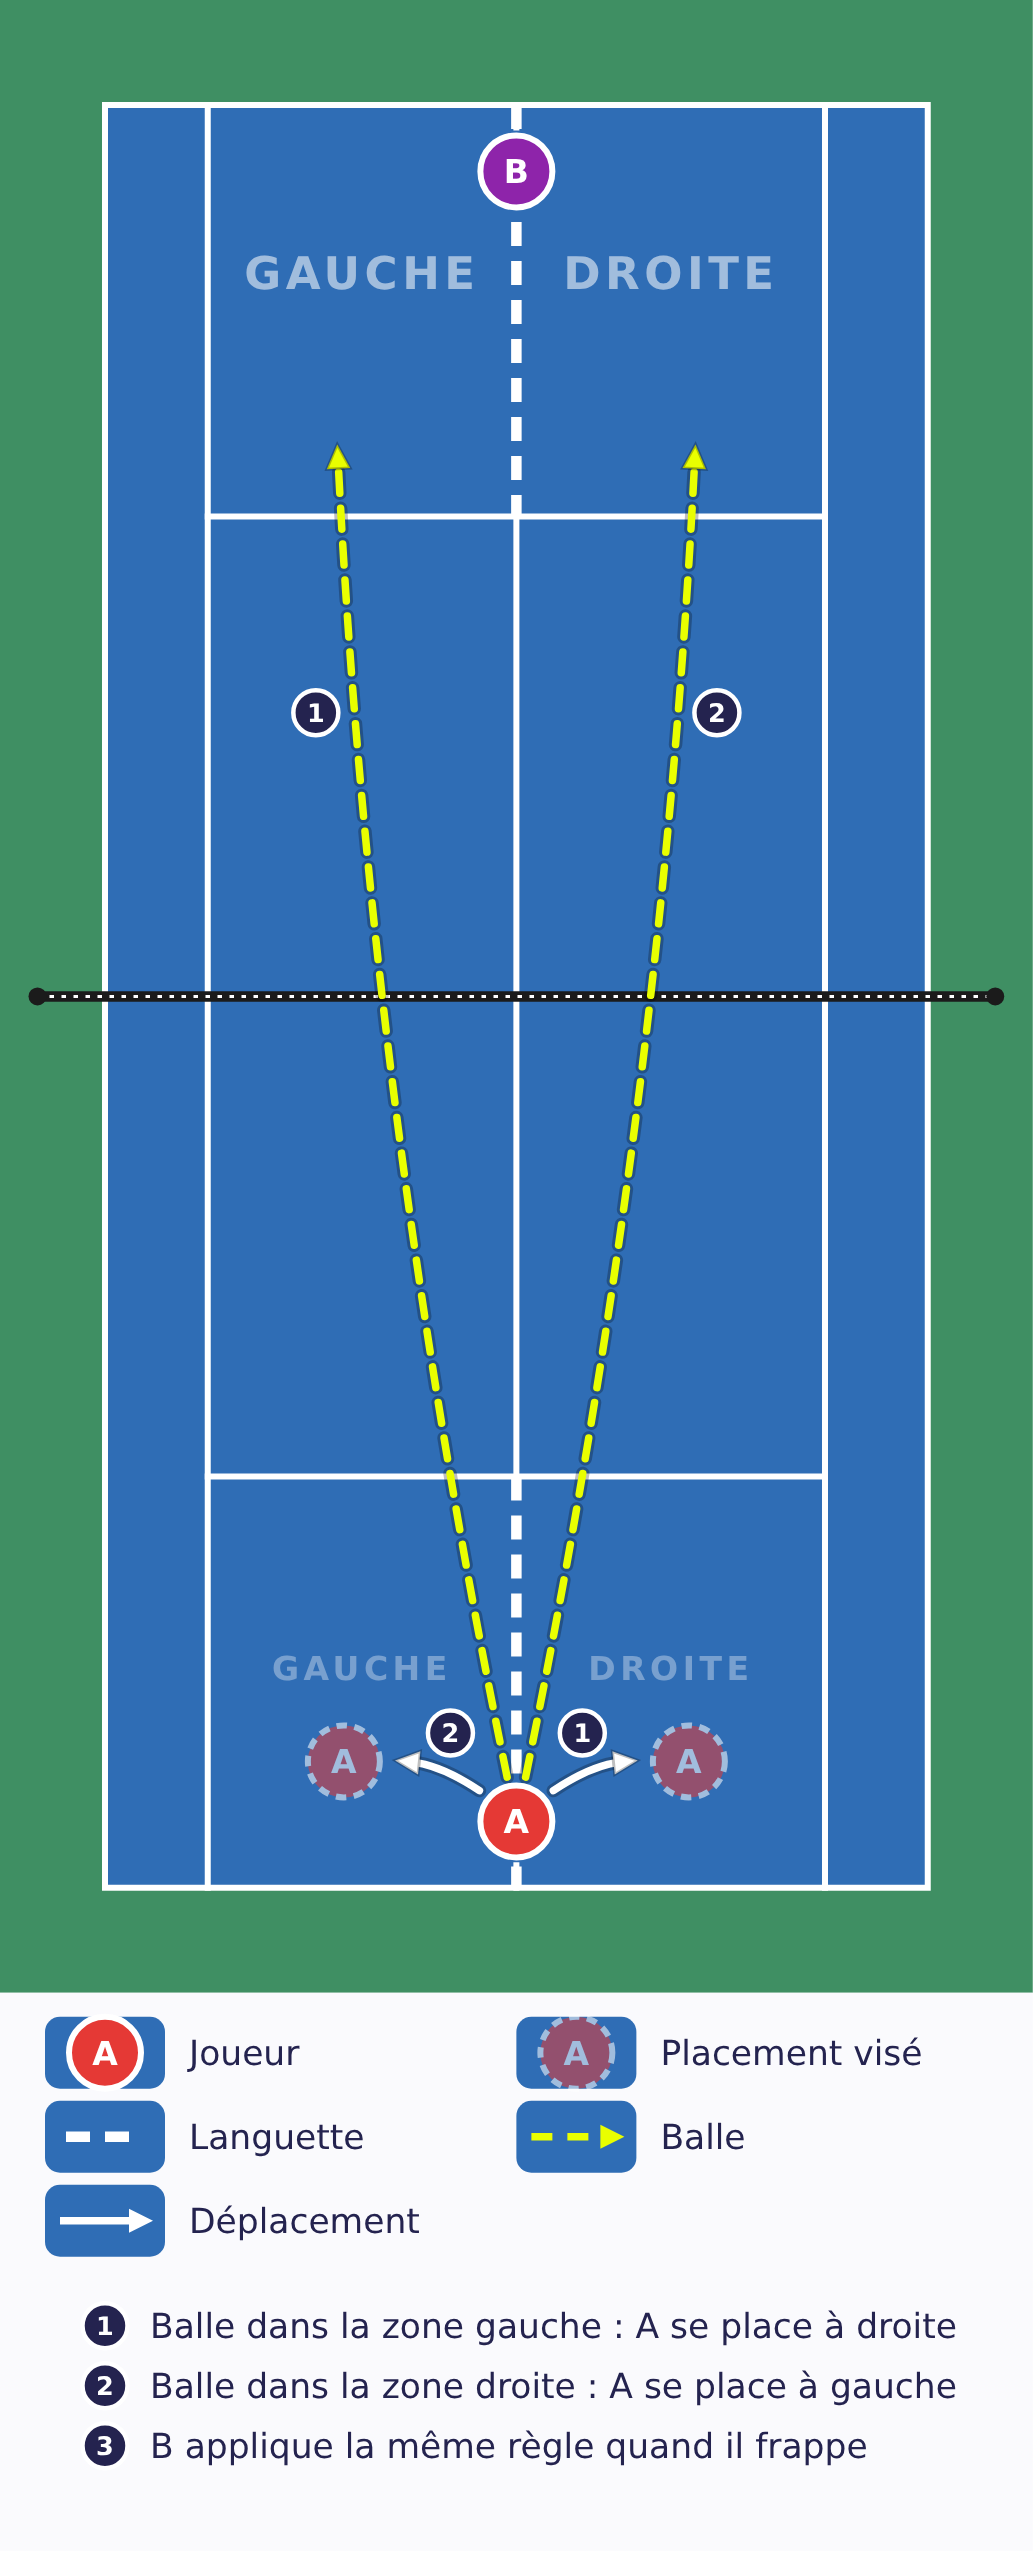
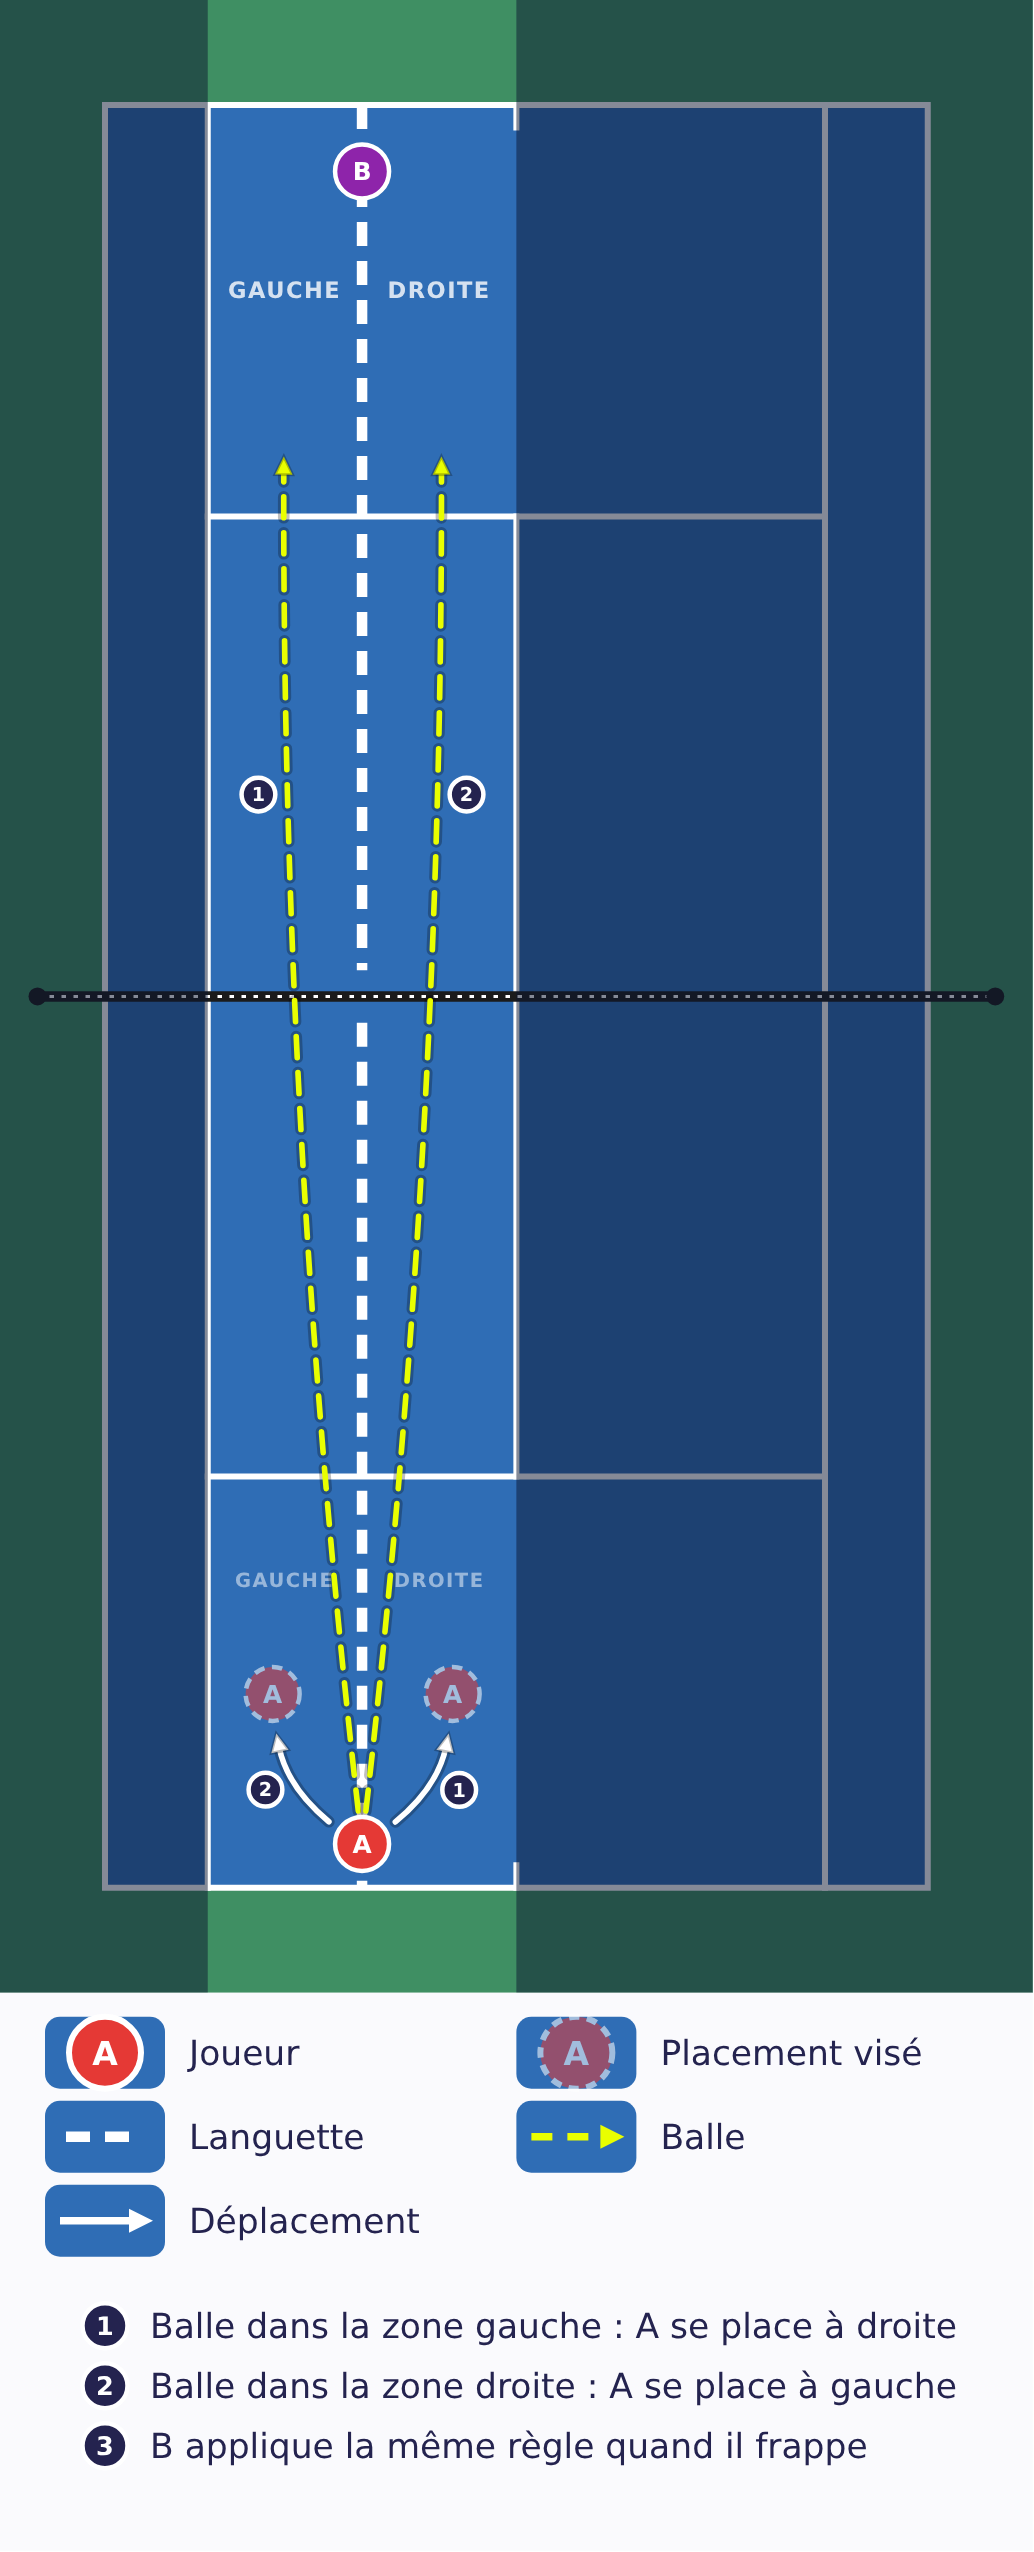
Refait le schéma de replacement sur un demi-terrain
- Le jeu se fait dans la moitié gauche du terrain (dans la largeur),
  coupée en zones gauche et droite par des languettes.
- Générateur : zones masquées et taille des symboles réglable.

Claude-Session: https://claude.ai/code/session_01Be89jyis8WELtWjrQFcoYg

diff --git a/tools/schemas/generer.js b/tools/schemas/generer.js
@@ -14,6 +14,8 @@ const { chromium } = require('playwright');
 
 const DOSSIER = __dirname;
 const S = 50; // pixels par mètre
+// Taille des symboles sur le terrain (option `tailleSymboles` du JSON).
+let K = 1;
 const RECUL = 1.4; // marge autour du terrain (m)
 const DEMI_L = 10.97 / 2;
 const DEMI_H = 23.77 / 2;
@@ -70,12 +72,12 @@ function terrain() {
 
 const plot = (cx, cy) => `
   <g transform="translate(${cx} ${cy})">
-    <circle r="15" fill="${COULEURS.plot}" stroke="#7A3A00" stroke-width="3"/>
-    <circle r="6" fill="#FFFFFF" opacity="0.9"/>
+    <circle r="${15 * K}" fill="${COULEURS.plot}" stroke="#7A3A00" stroke-width="3"/>
+    <circle r="${6 * K}" fill="#FFFFFF" opacity="0.9"/>
   </g>`;
 
 // Plus large qu'un joueur : reste visible quand un joueur est dessus.
-const pastille = (cx, cy, r = 33) => `
+const pastille = (cx, cy, r = 33 * K) => `
   <circle cx="${cx}" cy="${cy}" r="${r}" fill="${COULEURS.pastille}"
           stroke="${COULEURS.encre}" stroke-width="3"/>`;
 
@@ -95,9 +97,9 @@ const porte = (cx, cy, angle = 0) => `
 // `fantome` : position visée (joueur en transparence, contour pointillé).
 const joueur = (cx, cy, nom, couleur, fantome = false) => `
   <g transform="translate(${cx} ${cy})" ${fantome ? 'opacity="0.55"' : ''}>
-    <circle r="24" fill="${couleur}" stroke="#FFFFFF" stroke-width="4"
+    <circle r="${24 * K}" fill="${couleur}" stroke="#FFFFFF" stroke-width="${4 * K}"
             ${fantome ? 'stroke-dasharray="7 5"' : ''}/>
-    <text y="8" text-anchor="middle" font-size="22" font-weight="700"
+    <text y="${8 * K}" text-anchor="middle" font-size="${22 * K}" font-weight="700"
           fill="#FFFFFF">${nom}</text>
   </g>`;
 
@@ -110,8 +112,8 @@ const balleIcone = (cx, cy) => `
 
 const badge = (cx, cy, texte) => `
   <g transform="translate(${cx} ${cy})">
-    <circle r="15" fill="${COULEURS.encre}" stroke="#FFFFFF" stroke-width="3"/>
-    <text y="6" text-anchor="middle" font-size="17" font-weight="700"
+    <circle r="${15 * K}" fill="${COULEURS.encre}" stroke="#FFFFFF" stroke-width="3"/>
+    <text y="${6 * K}" text-anchor="middle" font-size="${17 * K}" font-weight="700"
           fill="#FFFFFF">${texte}</text>
   </g>`;
 
@@ -155,28 +157,28 @@ function fleche({ de, a, courbe = 0, couleur, pointilles, numero, posNumero = 0.
 
   // Pointe de flèche orientée selon la tangente finale.
   const angle = Math.atan2(by - qy, bx - qx);
-  const t = 18;
+  const t = 18 * K;
   const pointe = [
     [bx, by],
     [bx - t * Math.cos(angle - 0.45), by - t * Math.sin(angle - 0.45)],
     [bx - t * Math.cos(angle + 0.45), by - t * Math.sin(angle + 0.45)],
   ];
   // Le trait s'arrête à la base de la pointe.
-  const fx = bx - 12 * Math.cos(angle);
-  const fy = by - 12 * Math.sin(angle);
+  const fx = bx - 12 * K * Math.cos(angle);
+  const fy = by - 12 * K * Math.sin(angle);
 
   // Numéro posé à côté du trait (côté extérieur de la courbe) pour ne pas
   // cacher la flèche.
   const [nx, ny] = [-dy / long, dx / long];
   const sens = courbe < 0 ? -1 : 1;
   const [px0, py0] = point(posNumero);
-  const [mx, my] = [px0 + nx * sens * 26, py0 + ny * sens * 26];
+  const [mx, my] = [px0 + nx * sens * 26 * K, py0 + ny * sens * 26 * K];
   return `
   <path d="M ${ax} ${ay} Q ${qx} ${qy} ${fx} ${fy}" fill="none" stroke="#000"
-        stroke-opacity="0.25" stroke-width="${epaisseur + 4}"
+        stroke-opacity="0.25" stroke-width="${epaisseur * K + 4}"
         ${pointilles ? 'stroke-dasharray="14 10"' : ''} stroke-linecap="round"/>
   <path d="M ${ax} ${ay} Q ${qx} ${qy} ${fx} ${fy}" fill="none" stroke="${couleur}"
-        stroke-width="${epaisseur}" ${pointilles ? 'stroke-dasharray="14 10"' : ''}
+        stroke-width="${epaisseur * K}" ${pointilles ? 'stroke-dasharray="14 10"' : ''}
         stroke-linecap="round"/>
   <polygon points="${pointe.map((p) => p.join(',')).join(' ')}" fill="${couleur}"
            stroke="#000" stroke-opacity="0.25" stroke-width="2"/>
@@ -246,17 +248,24 @@ function legende(spec) {
 // --- Assemblage -----------------------------------------------------------
 
 function construireSvg(spec) {
+  K = spec.tailleSymboles ?? 1;
   const couleurJoueur = (j, i) => j.couleur ?? COULEURS.joueurs[i % COULEURS.joueurs.length];
   let corps = terrain();
 
   for (const [[x1, y1], [x2, y2]] of spec.languettes ?? []) {
     corps += languette(px(x1), py(y1), px(x2), py(y2));
   }
+  // Parties du terrain non utilisées, assombries : [[x1, y1], [x2, y2]].
+  for (const [[x1, y1], [x2, y2]] of spec.masques ?? []) {
+    corps += `<rect x="${px(Math.min(x1, x2))}" y="${py(Math.min(y1, y2))}"
+      width="${Math.abs(x2 - x1) * S}" height="${Math.abs(y2 - y1) * S}"
+      fill="#0B1530" opacity="0.5"/>`;
+  }
   // Textes posés sur le terrain (noms de zones…).
   for (const t of spec.textes ?? []) {
     corps += `<text x="${px(t.pos[0])}" y="${py(t.pos[1])}" text-anchor="middle"
       dominant-baseline="middle" font-size="${t.taille ?? 30}" font-weight="700"
-      letter-spacing="3" fill="#FFFFFF" opacity="${t.opacite ?? 0.55}">${t.texte}</text>`;
+      letter-spacing="${t.espacement ?? 3}" fill="#FFFFFF" opacity="${t.opacite ?? 0.55}">${t.texte}</text>`;
   }
   for (const [x, y] of spec.pastilles ?? []) corps += pastille(px(x), py(y));
   for (const b of spec.balles ?? []) {
@@ -274,6 +283,7 @@ function construireSvg(spec) {
     if (b.icone) corps += balleIcone(px(b.icone[0]), py(b.icone[1]));
   }
 
+  K = 1; // la légende garde toujours la même taille
   const { svg: svgLegende, hauteur } = legende(spec);
   const hauteurTotale = HAUTEUR_TERRAIN + hauteur;
   return `<svg xmlns="http://www.w3.org/2000/svg" width="${LARGEUR}" height="${hauteurTotale}"

diff --git a/tools/schemas/README.md b/tools/schemas/README.md
@@ -24,13 +24,15 @@ origine au centre du filet, terrain vu du dessus et vertical :
 | Clé | Format | Dessin |
 | --- | --- | --- |
 | `joueurs` | `[{ "nom": "A", "pos": [x, y], "couleur"?: "#hex", "fantome"?: true }]` | jeton de couleur (`fantome` : placement visé, en transparence) |
-| `textes` | `[{ "pos": [x, y], "texte": "GAUCHE", "taille"?: 30, "opacite"?: 0.55 }]` | texte posé sur le terrain |
+| `textes` | `[{ "pos": [x, y], "texte": "GAUCHE", "taille"?: 30, "opacite"?: 0.55, "espacement"?: 3 }]` | texte posé sur le terrain |
 | `plots` | `[[x, y], …]` | plot orange |
 | `pastilles` | `[[x, y], …]` | disque jaune (replacement) |
 | `languettes` | `[[[x1, y1], [x2, y2]], …]` | trait blanc en pointillés |
 | `portes` | `[[x, y, angle?], …]` | triangle rose (base + jalon) |
 | `balles` | flèches (voir ci-dessous) | pointillés jaunes |
 | `deplacements` | flèches | trait blanc |
+| `masques` | `[[[x1, y1], [x2, y2]], …]` | assombrit une partie non utilisée (ex. l'autre demi-terrain) |
+| `tailleSymboles` | nombre (1 par défaut) | réduit les symboles pour un espace étroit (ex. 0.75) |
 | `etapes` | `["texte", …]` | liste numérotée sous la légende |
 
 Une flèche : `{ "de": [x, y], "a": [x, y], "courbe": 0.3, "numero": 2 }`.
@@ -39,3 +41,6 @@ pastille numérotée à côté (`posNumero` de 0 à 1 pour la déplacer le long 
 la flèche), `ecartDebut` / `ecartFin` (px) raccourcissent les extrémités.
 
 La légende n'affiche que les éléments utilisés.
+
+Vocabulaire : un **demi-terrain** est une moitié dans la largeur (couloir
+simple → ligne médiane), sur toute la longueur du terrain.
